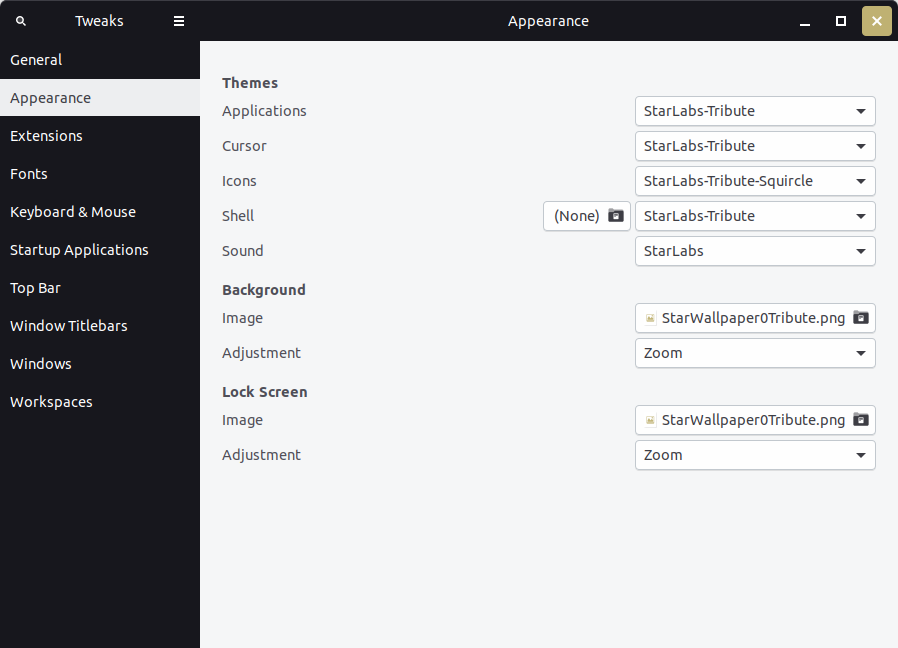
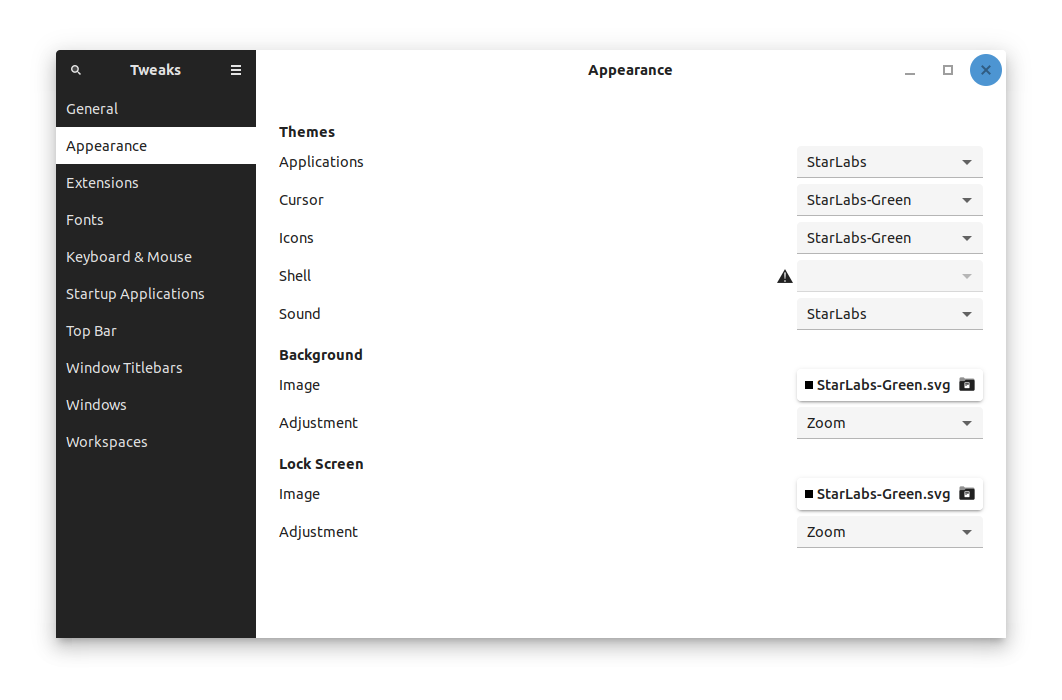
Updated README

Changed region(s): [[0.0, 0.0, 1.0, 1.0], [0.7171, 0.4321, 0.9666, 0.7716], [0.5612, 0.0926, 0.6548, 0.1235]]

diff --git a/README.md b/README.md
@@ -38,7 +38,7 @@ sudo apt purge starlabstheme
 ##### Dependencies
 You need to install:
 ```
-git meson sassc
+git meson sassc inkscape x11-apps
 ```
 ##### Install, Update or Uninstall
 ```
@@ -62,44 +62,21 @@ Next, enter your password and proceed to login as normal.
 ## Using a different colour
 
 StarLabsTheme now includes various colour schemes:
-#### Navy
-![Navy](backgrounds/StarWallpaper0Navy.png)
-#### Grey
-![Grey](backgrounds/StarWallpaper0Grey.png)
-#### Turquoise
-![Turquoise](backgrounds/StarWallpaper0Turquoise.png)
-#### Yellow
-![Yellow](backgrounds/StarWallpaper0Yellow.png)
-#### Green
-![Green](backgrounds/StarWallpaper0Green.png)
-#### Purple
-![Purple](backgrounds/StarWallpaper0Purple.png)
-#### Pink
-![Pink](backgrounds/StarWallpaper0Pink.png)
 #### Orange
-![Orange](backgrounds/StarWallpaper0Orange.png)
-#### Red
-![Red](backgrounds/StarWallpaper0Red.png)
-#### OLED
-![oLED](backgrounds/StarWallpaper0OLED.png)
-#### Tribute
-![Tribute](backgrounds/StarWallpaper0Tribute.png)
+![Navy](Screenshots/Orange)
+#### Green
+![Green](Screenshots/Green.png)
 
 If you installed StarLabsTheme from source using meson, you will have these variants. To install using the ppa, please use:
 ```
-sudo apt install starlabstheme-navy
-sudo apt install starlabstheme-grey
-sudo apt install starlabstheme-turquoise
-sudo apt install starlabstheme-yellow
 sudo apt install starlabstheme-green
-sudo apt install starlabstheme-purple
-sudo apt install starlabstheme-pink
 sudo apt install starlabstheme-orange
-sudo apt install starlabstheme-red
-sudo apt install starlabstheme-oled
-sudo apt install starlabstheme-tribute
-
 ```
+
+It's also possible to mix and match various elements:
+`sudo apt install starlabstheme-plymouth`
+`sudo apt install starlabstheme-green-icons`
+
 
 You can select different colours using the Gnome Tweak Tool:
 ![Tweaks](Screenshots/Tweaks.png)
@@ -111,6 +88,35 @@ gsettings set org.gnome.desktop.interface cursor-theme 'StarLabs-Green'
 gsettings set org.gnome.desktop.interface gtk-theme 'StarLabs-Green'
 ```
 
+## Hacking
+If you want a different color, it's fairly straight forward to add. There are two files that need editing:
+`meson.build`
+`meson_options.txt`
+
+These files contain examples for adding a Red variant. 
+
+#### meson_options.txt
+
+```
+option(
+  'accents',
+  type: 'array',
+  choices: ['newColor'],
+  description: 'Choose accent color(s)',
+)
+
+```
+
+#### meson.build
+```
+foreach accent: get_option('accents')
+  if accent == 'red'
+    accent_suffix = ''
+    scss_accent = '-Red'
+    scss_hex = '#FF0000'
+  endif
+endforeach
+```
 
 ## Copying or Reusing
 
@@ -120,6 +126,7 @@ The StarLabs icon assets (any and all source `.svg` files or rendered `.png` fil
 
 Included scripts are free software licensed under the terms of the [GNU General Public License, version 3](https://www.gnu.org/licenses/gpl-3.0.txt).
 
+Thanks to [Materia](https://github.com/nana-4/materia-theme) and all others that this theme was forked and inspired from.
 
 # [© Star Labs® / All Rights Reserved.](https://starlabs.systems)
 Any issues or questions, please contact us at [support@starlabs.systems](mailto:supportstarlabs.systems)
